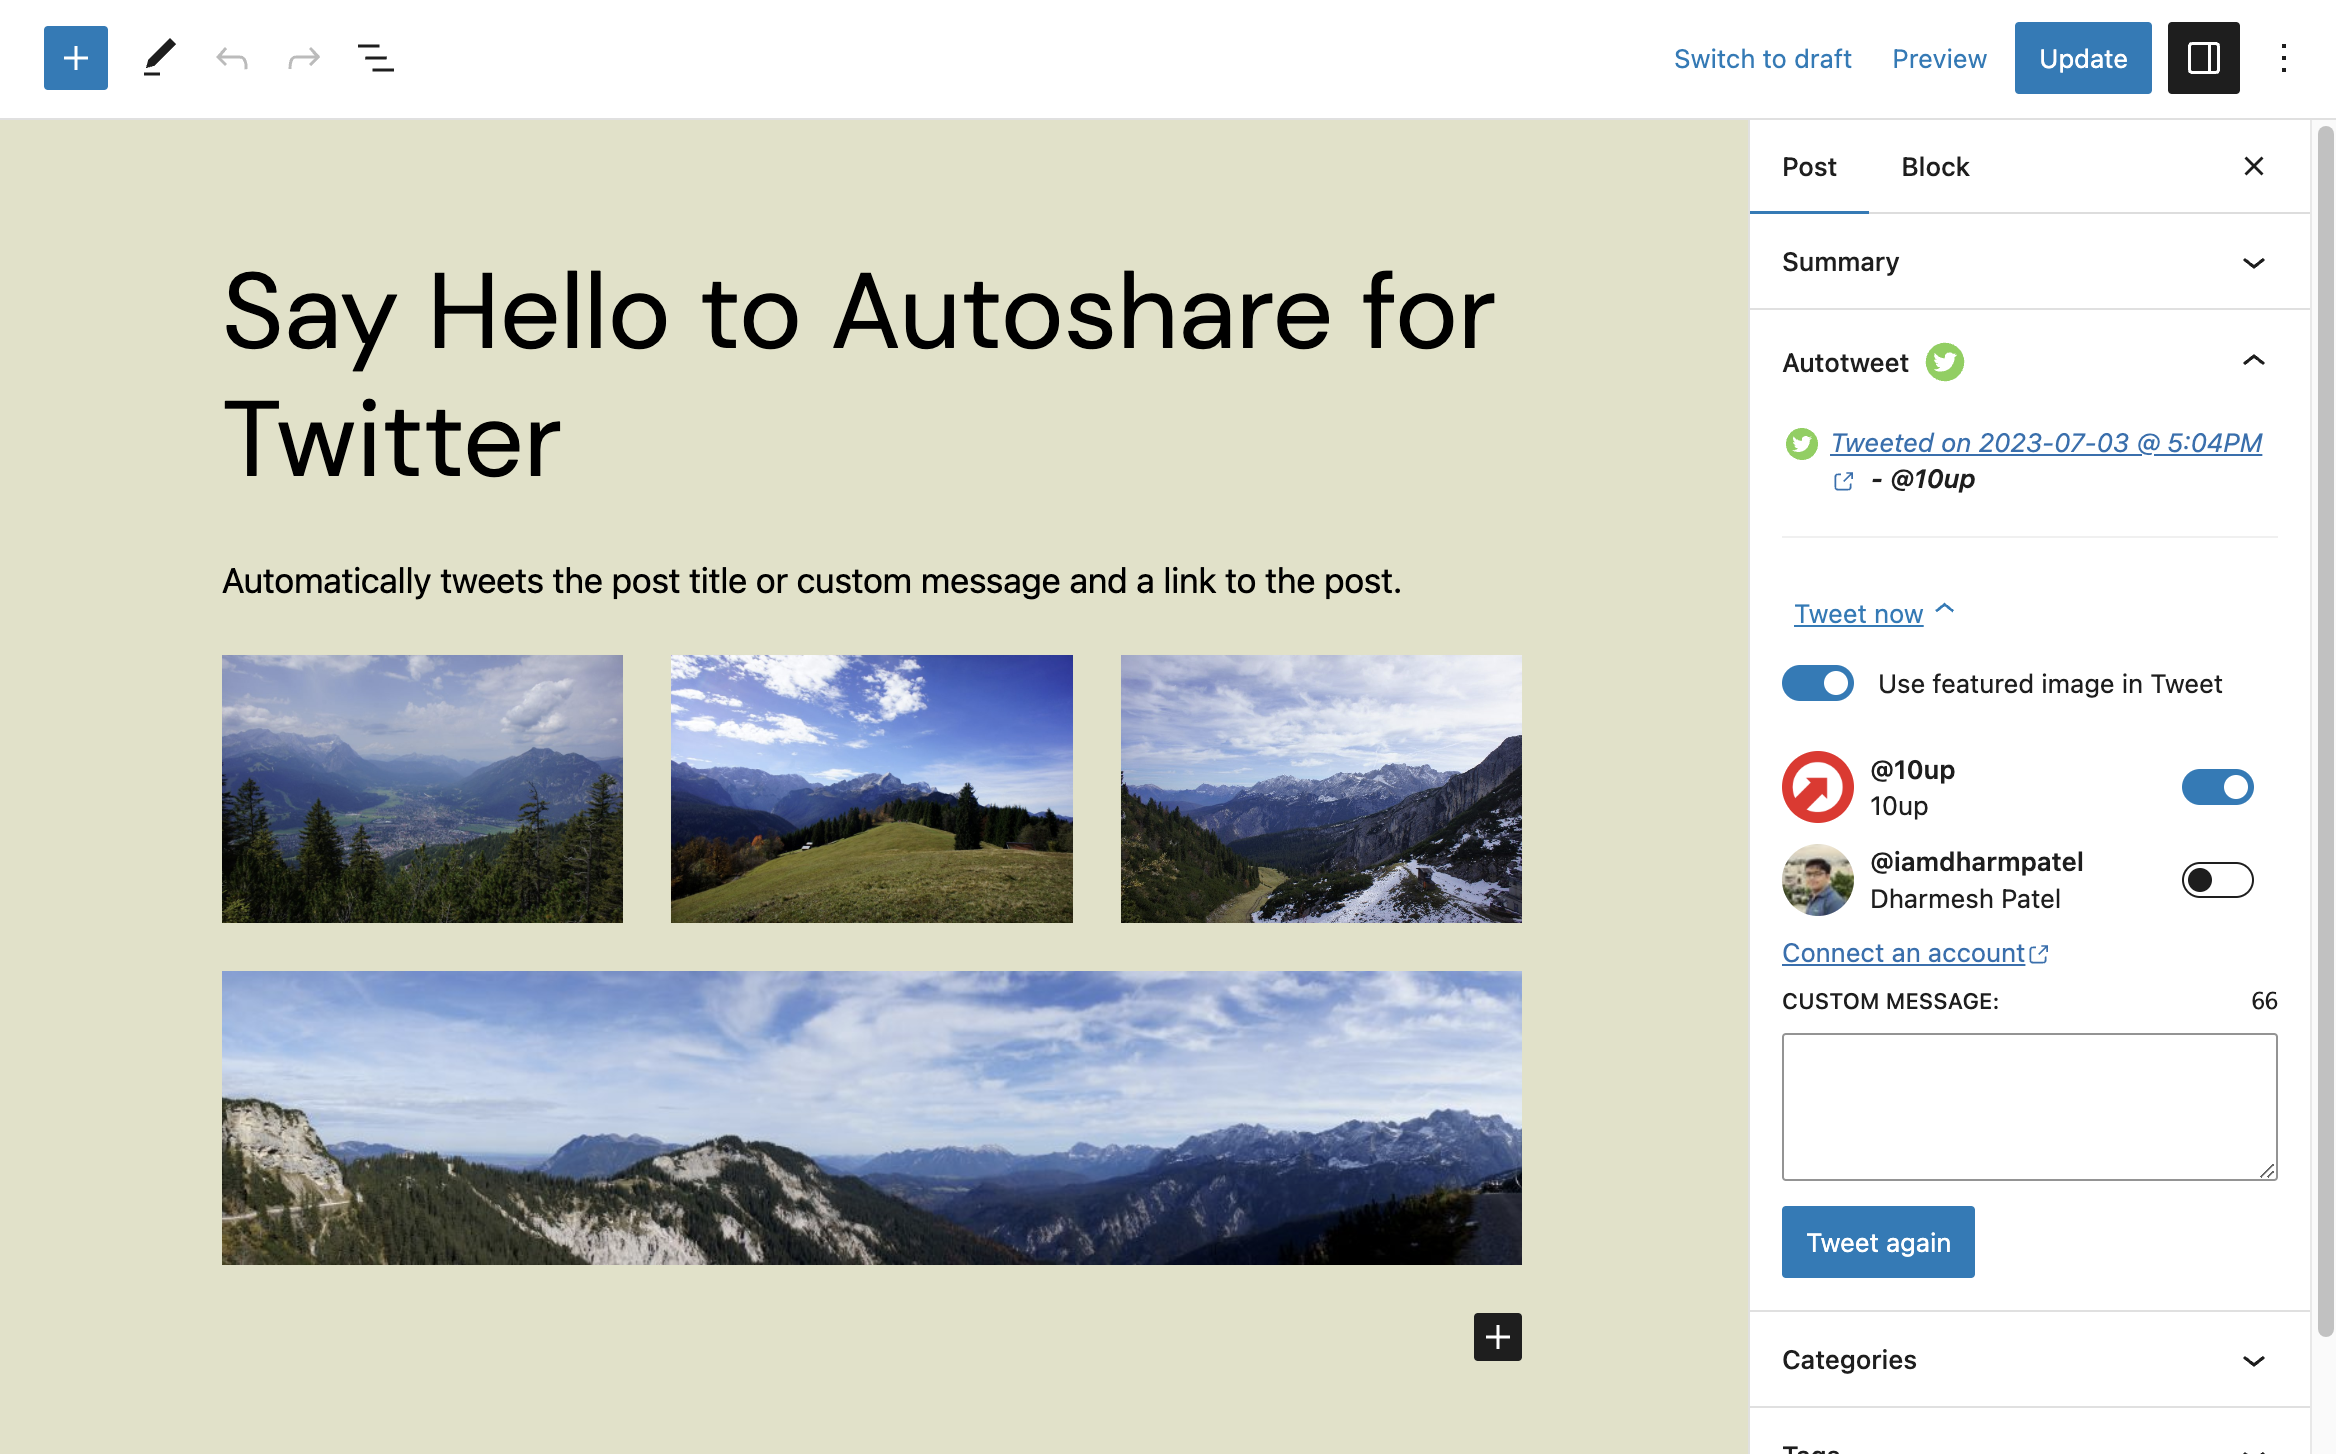
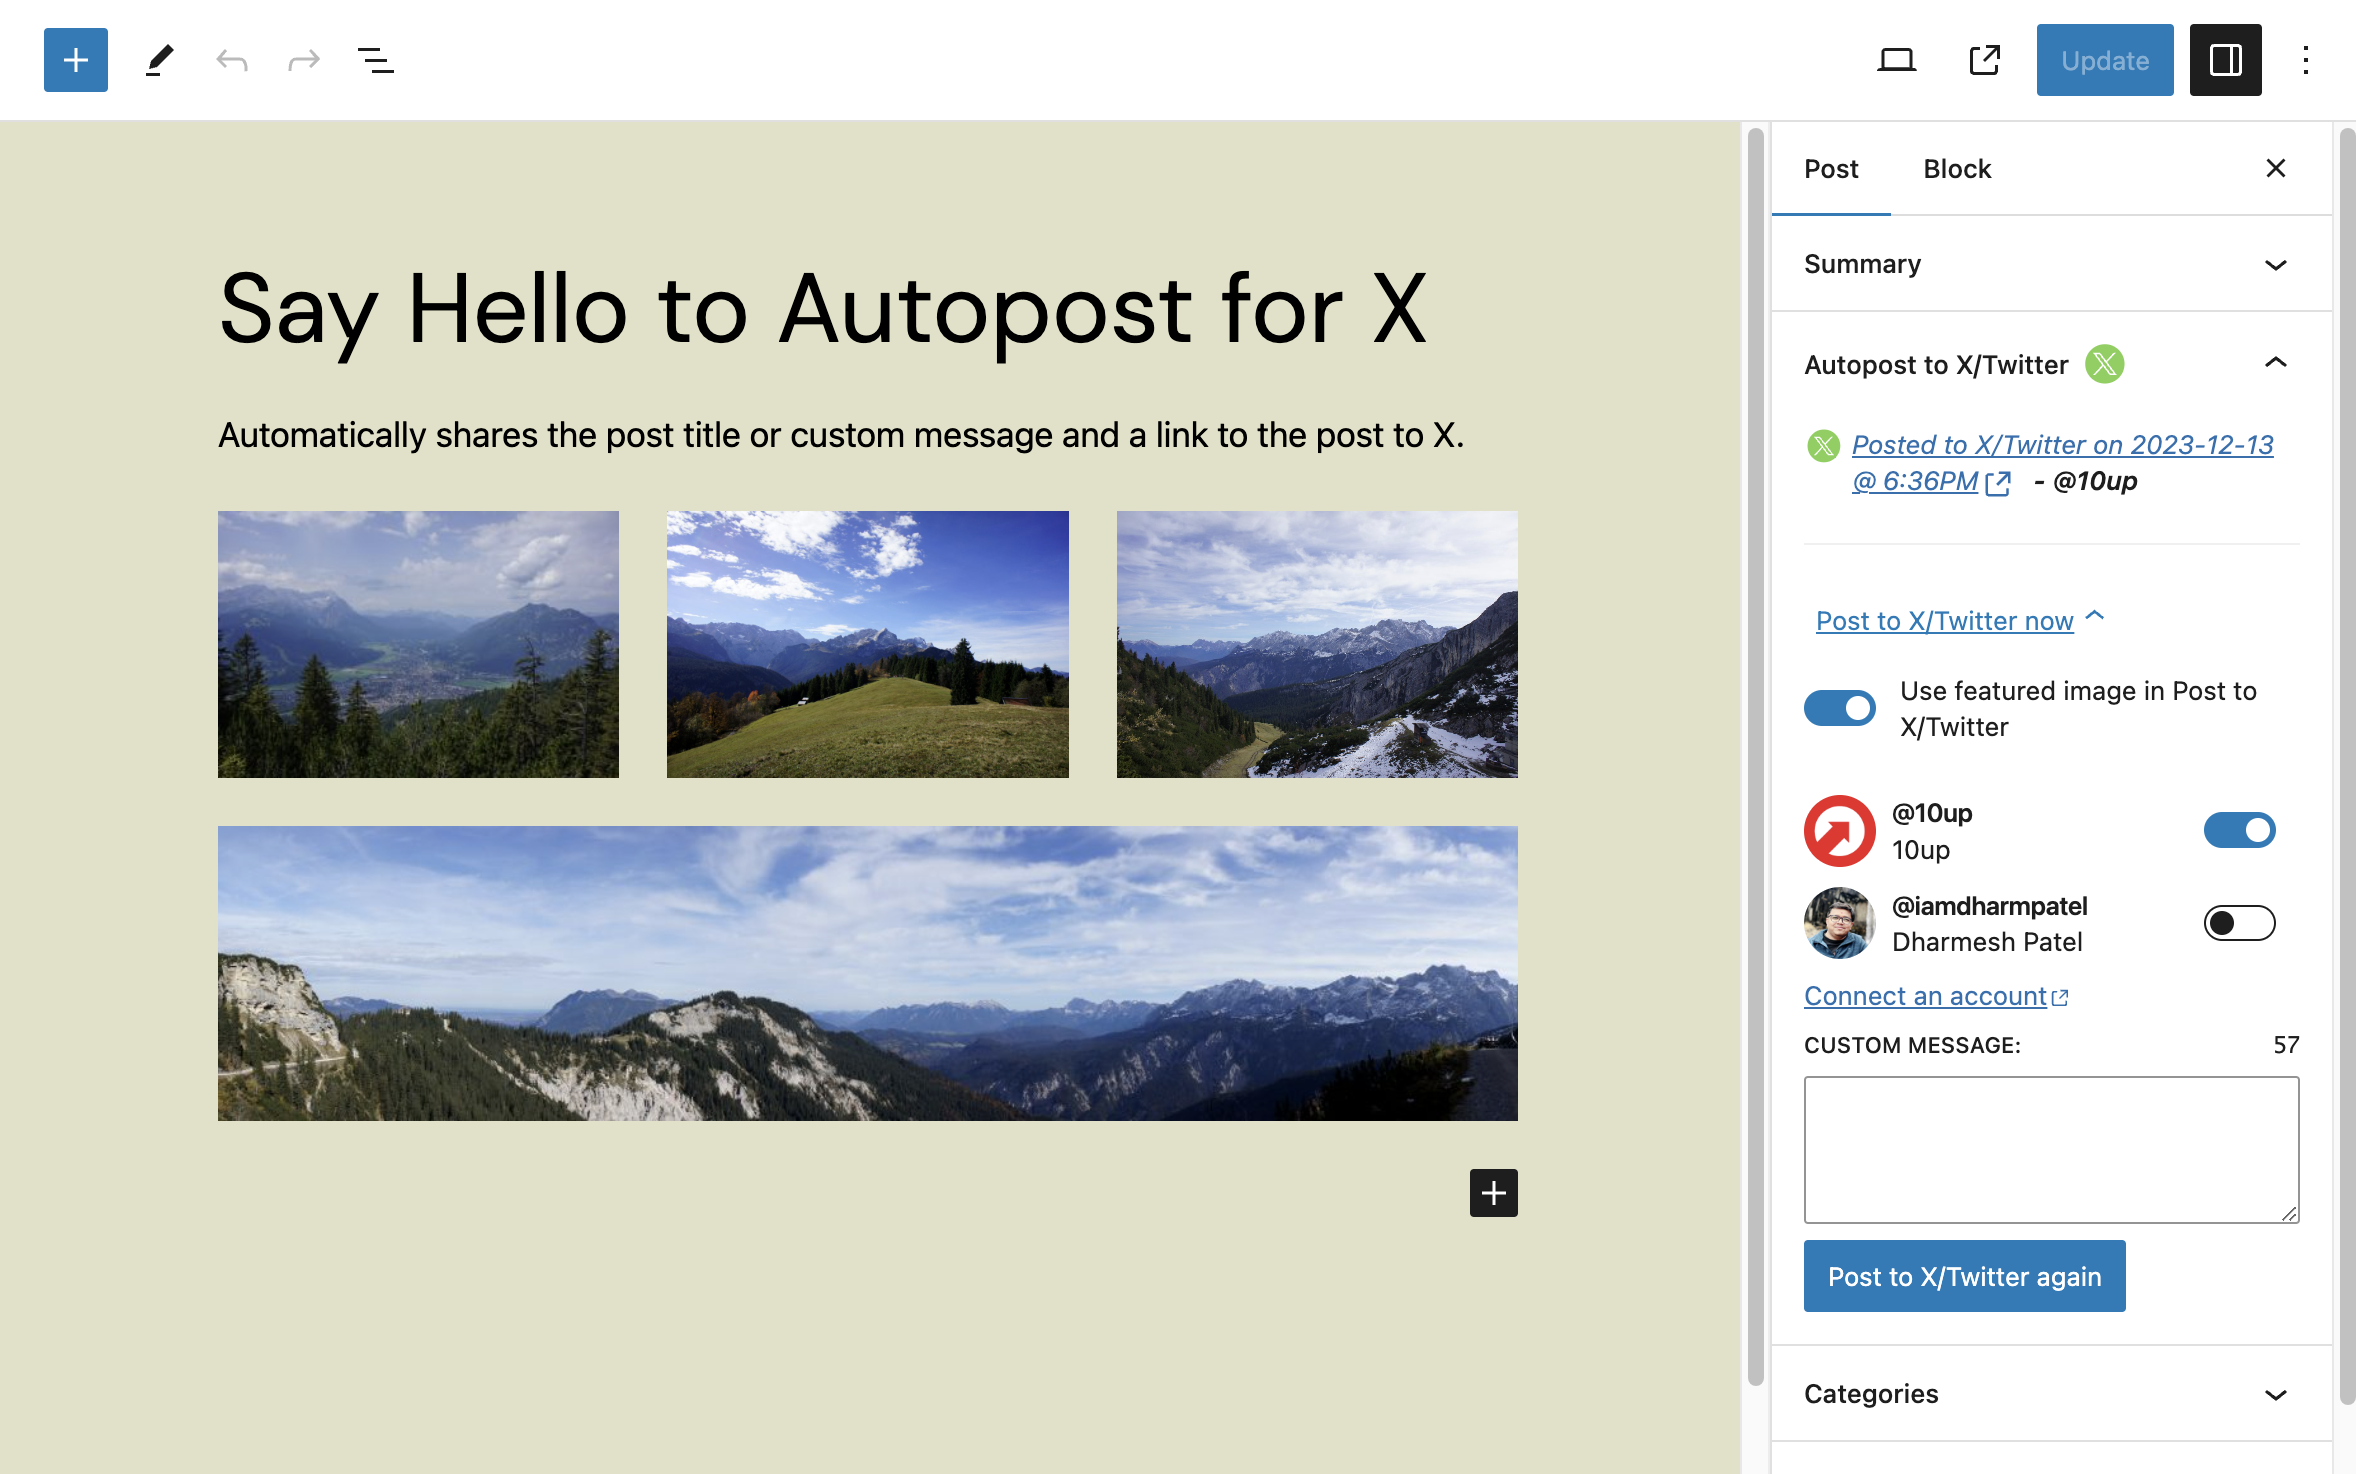
Update screenshots.

diff --git a/includes/admin/settings.php b/includes/admin/settings.php
@@ -427,7 +427,7 @@ function options_page() {
 				</a>
 				<p>
 					<strong>
-						<?php echo esc_html__( 'Autopost for X (formerly Autoshare for Twitter)', 'autoshare-for-twitter' ) . ' ' . esc_html__( 'by', 'autoshare-for-twitter' ); ?> <a href="https://10up.com" class="logo" title="<?php esc_attr_e( '10up', 'autoshare-for-twitter' ); ?>"><?php esc_html_e( '10up', 'autoshare-for-twitter' ); ?></a>
+						<?php echo esc_html__( 'Autopost for X', 'autoshare-for-twitter' ) . ' ' . esc_html__( 'by', 'autoshare-for-twitter' ); ?> <a href="https://10up.com" class="logo" title="<?php esc_attr_e( '10up', 'autoshare-for-twitter' ); ?>"><?php esc_html_e( '10up', 'autoshare-for-twitter' ); ?></a>
 					</strong>
 				</p>
 				<nav>
